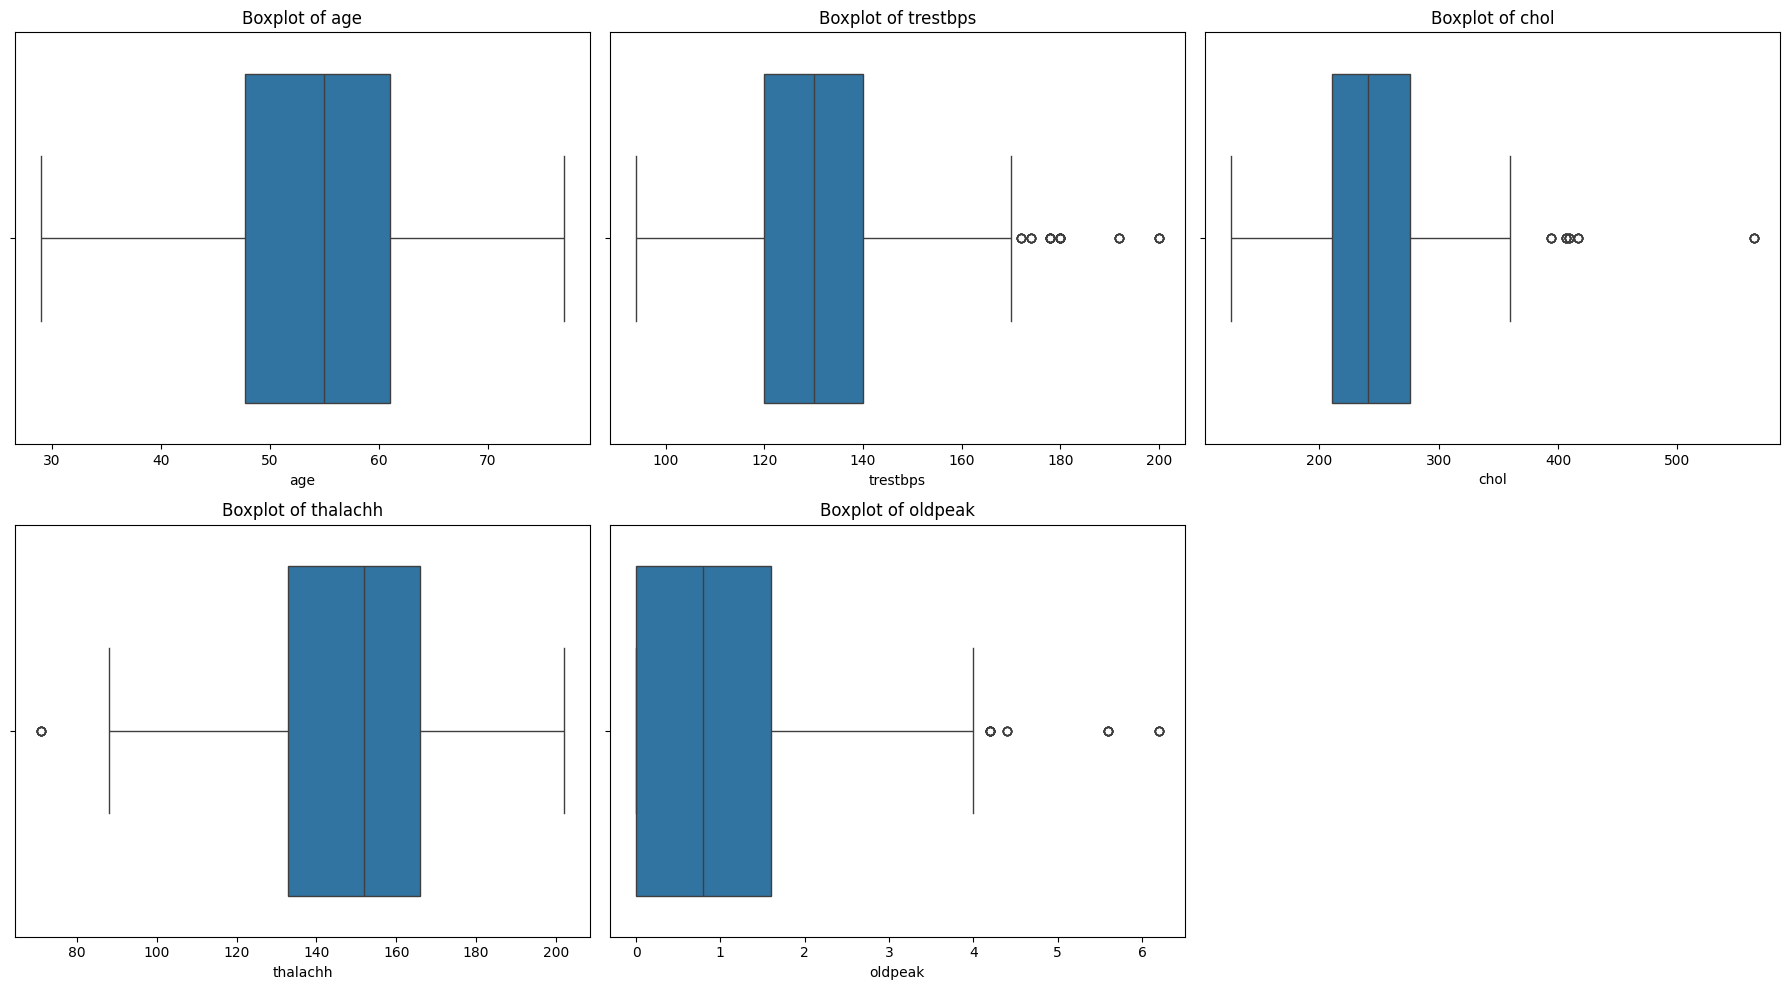
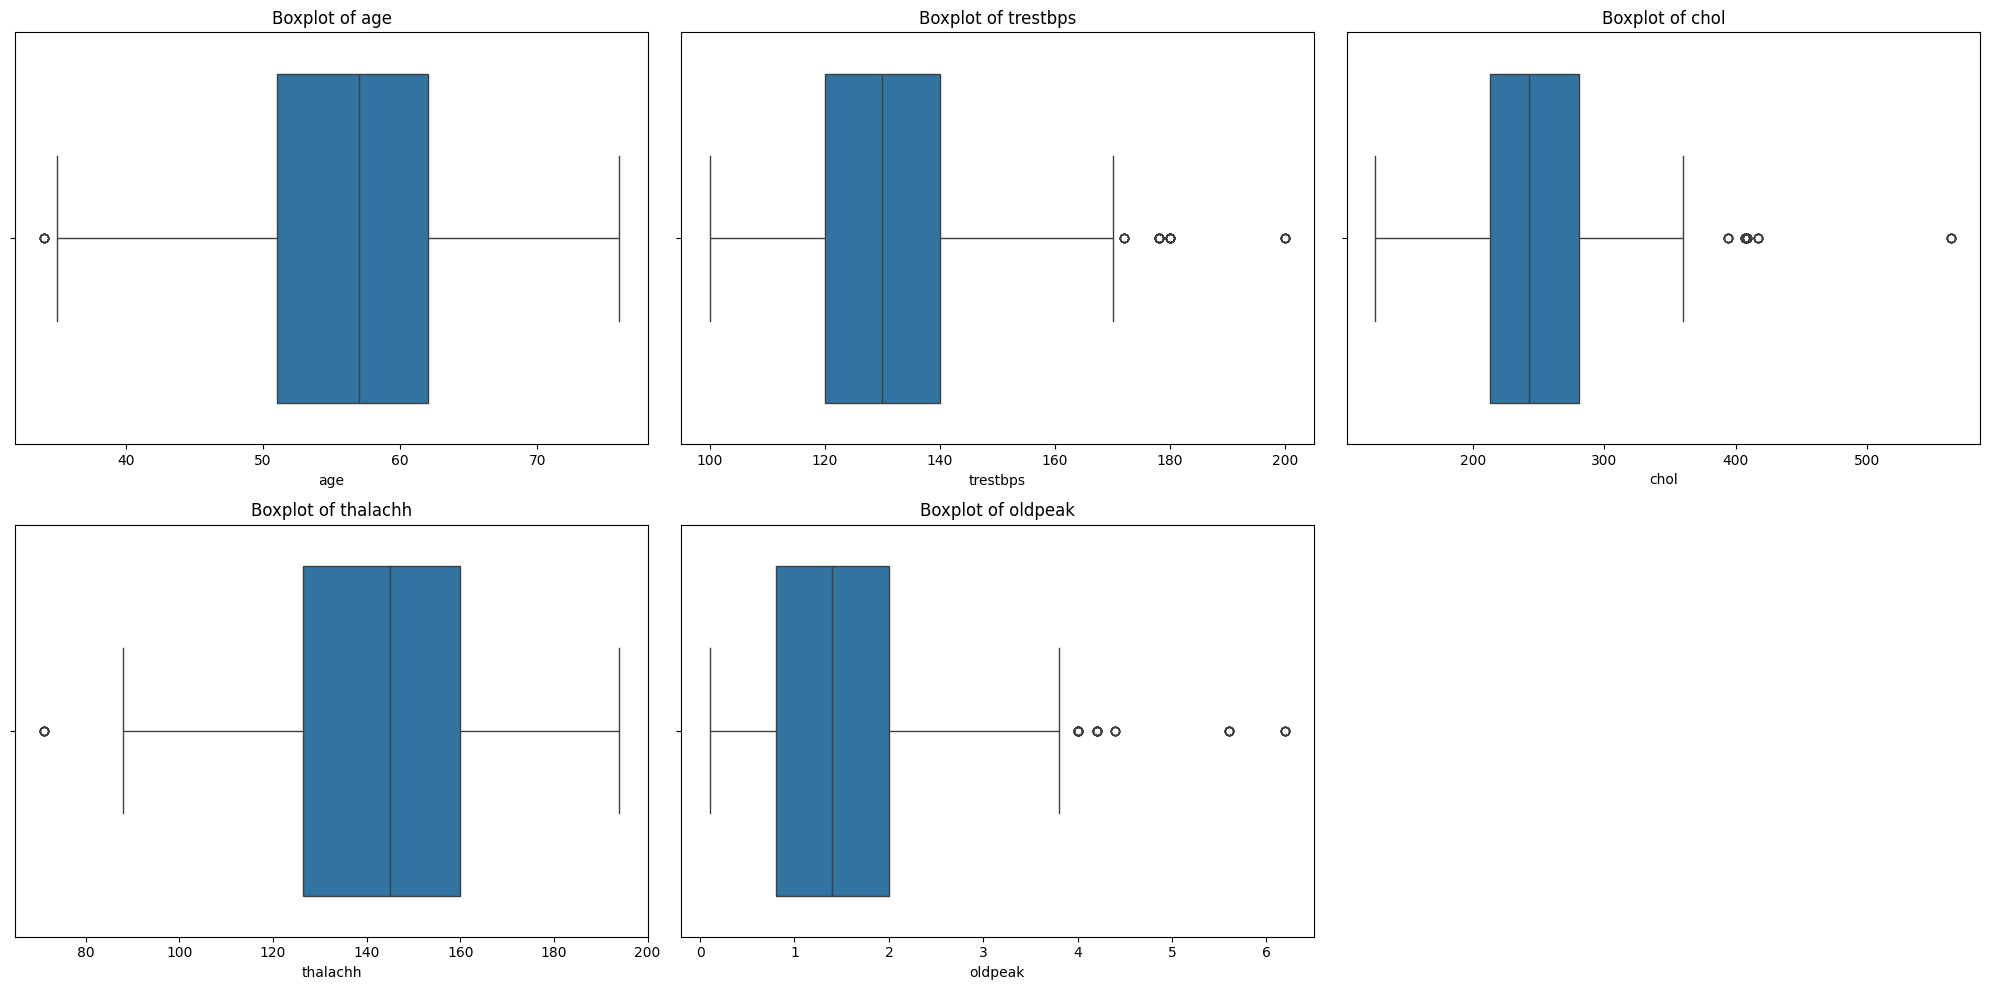
update

diff --git a/laporan_submission.md b/laporan_submission.md
@@ -46,14 +46,18 @@ Pendekatan berbasis machine learning menawarkan keuntungan dalam hal kemampuan u
 
 - Model machine learning secara teratur dapat dioptimasi dengan mengelola dan menganalisis volume besar data medis dengan efisien, sehingga menghasilkan prediksi yang lebih akurat tentang kemungkinan risiko penyakit jantung.
 
-**Rubrik/Kriteria Tambahan (Opsional)**:
-
 ### Solution statements
 
 - Membandingkan beberapa algoritma machine learning untuk mendapatkan algoritma yang memiliki performa terbaik.
 - Melakukan evaluasi menggunakan beberapa metrik seperti akurasi, presisi, F1, dan juga ROC agar model yang dihasilkan akurat dan dapat diandalkan.
 
 ## Data Understanding
+
+Untuk memahami tentang dataset yang digunakan, teknik Exploratory Data Analysis (EDA) digunakan sebagai langkah awal dalam proses analisis data. EDA memungkinkan eksplorasi dan pengamatan terhadap dataset secara sistematis, sehingga karakteristik, pola, dan hubungan antara variabel-variabel dalam dataset dapat dipahami lebih jelas. Dengan menggunakan EDA, identifikasi outlier, deteksi pola dan hubungan antara variabel, serta pemahaman distribusi data dapat dilakukan, sehingga keputusan yang lebih tepat dalam proses analisis dan pengambilan keputusan berbasis data dapat diambil.
+
+### Exploratory Data Analysis (EDA)
+
+#### Deskripsi Variabel
 
 Dataset yang digunakan berisi 1.888 data yang digabungkan dari lima dataset penyakit jantung yang tersedia. Dataset ini memiliki 14 fitur untuk memprediksi risiko serangan jantung, yang mencakup faktor medis dan demografi. Berikut ini adalah deskripsi terperinci dari setiap fitur.
 
@@ -72,63 +76,218 @@ Dataset yang digunakan berisi 1.888 data yang digabungkan dari lima dataset peny
 13. thal: Jenis-jenis talasemia. Nilai: 1 = Normal, 2 = Fixed defect, 3 = Reversible defect.
 14. target: Label, resiko serangan jantung. Nilai: 1 = more chance of heart attack, 0 = less chance of heart attack.
 
+Dari deskripsi fitur diatas, dapat dilihat bahwa terdapat 5 kolom bertipe numerik, 8 kolom bertipe kategori, dan 1 kolom target.
+
+Berikut ini statistik dari dataset
+
+![statistik](https://raw.githubusercontent.com/yest/proyek1-mlt/refs/heads/main/images/statistik.png)
+
+Jumlah data untuk label 0 adalah 911, dan label 1 adalah 977, sehingga dapat dikatakan bahwa distribusi datanya seimbang.
+![distribusi label](https://raw.githubusercontent.com/yest/proyek1-mlt/refs/heads/main/images/distribusi_label.png)
+
 Dataset dapat diunduh di [Kaggle](https://www.kaggle.com/datasets/mfarhaannazirkhan/heart-dataset).
 
-**Rubrik/Kriteria Tambahan (Opsional)**:
+#### Missing Values
 
-### Exploratory Data Analysis (EDA)
+Pada dataset ini tidak ditemukan adanya missing values, namun pada kolom oldpeak, terdapat 609 data yang yang bernilai 0. Untuk itu data tersebut dihapus sehingga jumlah data menjadi 1279 dengan rincian sebagai berikut:
 
-Berikut ini hasil dari (EDA)
+- Jumlah data dengan label 0 adalah 714
+- Jumlah data dengan label 1 adalah 565
 
-1. Dari 1.888 data tidak ada data yang kosong.
-2. Jumlah data untuk label 0 adalah 911, dan label 1 adalah 977, sehingga dapat dikatakan bahwa distribusi datanya seimbang.
-![distribusi label](https://raw.githubusercontent.com/yest/proyek1-mlt/refs/heads/main/images/distribusi_label.png)
-3. Berikut ini hasil distribusi untuk kolom-kolom bertipe numerik.
-    - age: Sebagian besar peserta memiliki usia antara 50-60 tahun. Tidak ada outlier yang signifikan.
-    - trestbps: Sebagian besar peserta memiliki tekanan darah istirahat sekitar 120-140 mmHg. Terdapat beberapa outlier dengan tekanan darah yang lebih tinggi.
-    - chol: Sebagian besar peserta memiliki kadar kolesterol sekitar 200-300 mg/dL. Terdapat beberapa outlier dengan kadar kolesterol yang lebih tinggi.
-    - thalachh: Sebagian besar peserta memiliki detak jantung maksimum sekitar 150-160 bpm. Terdapat beberapa outlier dengan detak jantung maksimum yang lebih rendah.
-    - oldpeak: Sebagian besar peserta memiliki depresi ST yang rendah (dekat dengan 0). Terdapat beberapa outlier dengan depresi ST yang lebih tinggi.
+Setelah penghapusan data birnilai 0, data masih dapat dikatakan seimbang.
+
+### Outliers
+
+Pada tahapan ini dilakukan analisa outliers menggunakan Boxplot. Berikut ini adalah hasil distribusi dan analisis outlier dari kolom-kolom bertipe numerik.
+
+- age: Sebagian besar peserta memiliki usia antara 50-60 tahun. Tidak ada outlier yang signifikan.
+- trestbps: Sebagian besar peserta memiliki tekanan darah istirahat sekitar 120-140 mmHg. Terdapat beberapa outlier dengan tekanan darah yang lebih tinggi.
+- chol: Sebagian besar peserta memiliki kadar kolesterol sekitar 200-300 mg/dL. Terdapat beberapa outlier dengan kadar kolesterol yang lebih tinggi.
+- thalachh: Sebagian besar peserta memiliki detak jantung maksimum sekitar 150-160 bpm. Terdapat beberapa outlier dengan detak jantung maksimum yang lebih rendah.
+- oldpeak: Sebagian besar peserta memiliki depresi ST yang rendah (dekat dengan 0). Terdapat beberapa outlier dengan depresi ST yang lebih tinggi.
+
 Berikut ini adalah boxplot dari setiap kolom bertipe numerik.
 ![boxplot](https://raw.githubusercontent.com/yest/proyek1-mlt/refs/heads/main/images/boxplot.png)
 
+Setelah mengetahui adanya outliers, maka data outliers tersebut dihapus. Setelah penghapusan data, maka jumlah data menjadi 914 dengan rincian 523 untuk label 0 dan 391 untuk label 1, dan distribusi label masih seimbang.
+
+### Univariate Analysis
+
+#### Kolom kategorikal
+
+Analisis univariate kolom kategorikal dilakukan menggunakan countplot. Hasilnya dapat dilihat pada grafik berikut ini.
+
+![countplot](https://raw.githubusercontent.com/yest/proyek1-mlt/refs/heads/main/images/univariate_categorical.png)
+
+Dari hasil analisis univariate dapat disimpulkan beberapa hal berikut ini:
+
+1. Pada kolom sex, data terbanyak ada pada kategori laki-laki.
+2. Pada kolom cp, jenis sakit di dada yang paling dominan adalah Typical angina.
+3. Pada kolom fbs, seluruh data memiliki gula darah < 120 mg/dl.
+4. Pada kolom restecg, sasil elektrokardiografi saat istirahat yang dominan adalah normal dan ST-T wave abnormality.
+5. Pada kolom exang, data terbanyak adalah angina akibat olahraga.
+6. Pada kolom slope, kemiringan segmen ST latihan puncak yang dominan adalah Flat.
+7. Pada kolom ca, jumlah pembuluh darah utama (0-3) yang diwarnai dengan fluoroskopi paling banyak adalah 0.
+8. Pada kolom thal, jenis talasemia yang dominan adalah Reversible defect dan fixed.
+
+#### Kolom Numerik
+
+Pada kolom bertipe numerik, analisis univariate dilakukan menggunakan histogram. Hasil dari histogram dapat dilihat dibawah ini.
+
+![histogram](https://raw.githubusercontent.com/yest/proyek1-mlt/refs/heads/main/images/univariate_numerical.png)
+
+Dari histogram diatas dapat disimpulkan beberapa hal:
+
+1. Age: Distribusi cenderung normal dengan puncak di sekitar usia 55-60 tahun. Ini menunjukkan bahwa sebagian besar subjek penelitian berada dalam rentang usia tersebut. Sehingga dapat disimpulkan bahwa sebagian besar pasien dalam dataset ini berada pada usia menengah hingga lanjut.
+2. Trestbps: Distribusi cenderung normal, dengan sedikit kemiringan ke kanan. Puncaknya berada di sekitar 120-130 mmHg. Sehingga dapat disimpulkan bahwa sebagian besar pasien memiliki tekanan darah dalam rentang normal hingga sedikit tinggi saat istirahat.
+3. Chol: Distribusi cenderung normal, dengan sedikit kemiringan ke kanan. Puncaknya berada di sekitar 200-250 mg/dL. Sehingga dapat disimpulkan bahwa tingkat kolesterol sebagian besar pasien berada dalam rentang normal hingga sedikit tinggi.
+4. Thalachh: distribusi cenderung normal, dengan sedikit kemiringan ke kiri. Puncaknya berada di sekitar 150-160 bpm. Sehingga dapat disimpulkan bahwa detak jantung maksimum sebagian besar pasien berada dalam rentang normal hingga sedikit di atas rata-rata.
+5. Oldpeak: distribusi cenderung miring ke kanan, dengan sebagian besar data terkonsentrasi di sekitar nilai 0-1. Sehingga dapat disimpulkan bahwa sebagian besar pasien memiliki depresi segmen ST yang rendah.
+
+### Multivariate Analysis
+
+#### Categorical
+
+Analisis multivariate pada kolom bertipe kategorikal menggunakan catplot. Berikut ini hasil dari catplot.
+
+![catplot](https://raw.githubusercontent.com/yest/proyek1-mlt/refs/heads/main/images/catplot.png)
+
+Dari catplot diatas, dapat dilihat bahwa terdapat beberapa fitur yang memiliki pengaruh ke target, yaitu: sex, exang, ca, dan thal.
+
+#### Numerical
+
+Analisis multivariate pada kolom bertipe numerik menggunakan matriks korelasi. Hasil analisis menunjukkan bahwa tidak ada satupun fitur yang memiliki korelasi kuat ke target.
+
+Berikut ini adalah matriks korelasi dari kolom bertipe numerik.
+
+![correlation matrix](https://raw.githubusercontent.com/yest/proyek1-mlt/refs/heads/main/images/cm.png)
+
 ## Data Preparation
 
-Pada bagian ini Anda menerapkan dan menyebutkan teknik data preparation yang dilakukan. Teknik yang digunakan pada notebook dan laporan harus berurutan.
+### Encoding
 
-**Rubrik/Kriteria Tambahan (Opsional)**:
+Langkah pertama dalam tahapan data preparation adalah melakukan encoding terhadap fitur kategorikal. Encoding dilakukan untuk menghindari penafsiran yang salah oleh model dan meningkatkan kinerja model. Teknik encoding yang digunakan adalah One Hot Encoding.
 
-- Menjelaskan proses data preparation yang dilakukan
-- Menjelaskan alasan mengapa diperlukan tahapan data preparation tersebut.
+Berikut ini struktur kolom setelah encoding.
+
+![struktur encoding](https://raw.githubusercontent.com/yest/proyek1-mlt/refs/heads/main/images/struktur_encoding.png)
+
+### Train test split
+
+Langkah berikutnya adalah membagi dataset menjadi data train dan data test. Data train digunakan untuk training model machine learning, sedangkan data test digunakan untuk evaluasi model. 
+
+Persentase pembagian data adalah sebesar 80% untuk data train dan 20% untuk data test, atau 731 data train dan 183 data test.
 
 ## Modeling
 
-Tahapan ini membahas mengenai model machine learning yang digunakan untuk menyelesaikan permasalahan. Anda perlu menjelaskan tahapan dan parameter yang digunakan pada proses pemodelan.
+Untuk menentukan algoritma yang akan digunakan, maka dilakukan perbandingan beberapa algoritma machine learning untuk mengetahui algortima mana yang paling tepat untuk permasalahan deteksi penyakit jantung.
 
-**Rubrik/Kriteria Tambahan (Opsional)**:
+Algortima yang dibandingkan adalah:
 
-- Menjelaskan kelebihan dan kekurangan dari setiap algoritma yang digunakan.
-- Jika menggunakan satu algoritma pada solution statement, lakukan proses improvement terhadap model dengan hyperparameter tuning. **Jelaskan proses improvement yang dilakukan**.
-- Jika menggunakan dua atau lebih algoritma pada solution statement, maka pilih model terbaik sebagai solusi. **Jelaskan mengapa memilih model tersebut sebagai model terbaik**.
+1. Logistic Regression
+2. Linear Discriminant Analysis
+3. K-Nearest Neighbor(KNN)
+4. Decision Tree
+5. Naive Bayes
+6. Support Vector Machine
+
+Pemilihan algoritma-algoritma ini didasarkan pada karakteristik dan keunggulan masing-masing yang relevan dengan kasus prediksi penyakit jantung. berikut ini beberapa alasan pemilihan algoritma.
+
+1. Logistic Regression cocok untuk masalah klasifikasi biner dan memberikan interpretasi yang jelas terhadap koefisien.
+2. Linear Discriminant Analysis efektif dalam menangani masalah dengan fitur-fitur yang memiliki distribusi normal.
+3. K-Nearest Neighbor (KNN) merupakan algoritma yang sederhana dan intuitif, serta dapat menangani data yang tidak linear.
+4. Decision Tree memungkinkan interpretasi yang mudah dan dapat menangani fitur kategorikal.
+5. Naive Bayes bekerja dengan baik pada dataset dengan ukuran besar dan fitur-fitur yang independen.
+6. Support Vector Machine (SVM) efektif dalam menangani masalah klasifikasi dengan dimensi tinggi dan margin yang jelas.
+
+Dengan membandingkan algoritma-algoritma tersebut, diharapkan dapat menemukan model yang paling akurat dan efisien untuk prediksi penyakit jantung.
+
+Training dilakukan menggunakan teknik K-fold cross validation dengan n_split=10. Berikut ini adalah akurasi dan standar deviasi dari masing-masing algoritma.
+
+Algoritma | Akurasi | Standard Deviasi
+---------|----------|---------
+Logistic Regression | 0.834598 | 0.048124
+Linear Discriminant Analysis | 0.826472 | 0.062904
+K-Nearest Neighbor(KNN) | 0.844113 | 0.039460
+Decision Tree | 0.964421 | 0.012580
+Naive Bayes | 0.816846 | 0.051139
+Support Vector Machine | 0.915161 | 0.022826
+
+Berdasarkan tabel diatas, dapat dilihat bahwa algoritma Decision Tree memiliki performa terbaik dibandingkan algoritma lainnya.
 
 ## Evaluation
 
-Pada bagian ini anda perlu menyebutkan metrik evaluasi yang digunakan. Lalu anda perlu menjelaskan hasil proyek berdasarkan metrik evaluasi yang digunakan.
+Berdasarkan hasil perbandingan, maka dataset di training menggunkan algortima Decision Tree dengan parameter default. Setelah di training, model di evaluasi pada data test menggunakan beberapa matrix sebagai berikut:
 
-Sebagai contoh, Anda memiih kasus klasifikasi dan menggunakan metrik **akurasi, precision, recall, dan F1 score**. Jelaskan mengenai beberapa hal berikut:
+### 1. Confusion Matrix
 
-- Penjelasan mengenai metrik yang digunakan
-- Menjelaskan hasil proyek berdasarkan metrik evaluasi
+Confusion matrix adalah tabel yang digunakan untuk menggambarkan kinerja model klasifikasi. Confusion matrix biasanya terdiri dari empat komponen:
 
-Ingatlah, metrik evaluasi yang digunakan harus sesuai dengan konteks data, problem statement, dan solusi yang diinginkan.
+- **True Positive (TP):** Jumlah kasus yang sebenarnya positif (penderita penyakit jantung) dan diprediksi benar sebagai positif.
+- **True Negative (TN):** Jumlah kasus yang sebenarnya negatif (bukan penderita penyakit jantung) dan diprediksi benar sebagai negatif.
+- **False Positive (FP):** Jumlah kasus yang sebenarnya negatif (bukan penderita penyakit jantung) tetapi diprediksi salah sebagai positif (kesalahan tipe I).
+- **False Negative (FN):** Jumlah kasus yang sebenarnya positif (penderita penyakit jantung) tetapi diprediksi salah sebagai negatif (kesalahan tipe II).
 
-**Rubrik/Kriteria Tambahan (Opsional)**:
+### 2. Akurasi (Accuracy)
 
-- Menjelaskan formula metrik dan bagaimana metrik tersebut bekerja.
+Akurasi adalah proporsi prediksi yang benar dari total prediksi yang dibuat. Rumusnya adalah:
 
-**---Ini adalah bagian akhir laporan---**
+$\text{Accuracy} = \frac{TP + TN}{TP + TN + FP + FN}$
 
-_Catatan:_
+Akurasi memberikan gambaran umum tentang seberapa baik model dalam memprediksi baik kasus positif maupun negatif. Namun, akurasi bisa menyesatkan jika dataset tidak seimbang (misalnya, banyak lebih banyak kasus negatif daripada positif).
 
-- _Anda dapat menambahkan gambar, kode, atau tabel ke dalam laporan jika diperlukan. Temukan caranya pada contoh dokumen markdown di situs editor [Dillinger](https://dillinger.io/), [Github Guides: Mastering markdown](https://guides.github.com/features/mastering-markdown/), atau sumber lain di internet. Semangat!_
-- Jika terdapat penjelasan yang harus menyertakan code snippet, tuliskan dengan sewajarnya. Tidak perlu menuliskan keseluruhan kode project, cukup bagian yang ingin dijelaskan saja.
+### 3. Recall (Sensitivity atau True Positive Rate)
+
+Recall mengukur seberapa baik model dapat mengidentifikasi kasus positif. Rumusnya adalah:
+
+$\text{Recall} = \frac{TP}{TP + FN}$
+
+Recall penting dalam kasus prediksi penyakit jantung karena mengurangi risiko false negative (menyatakan seseorang sehat padahal mereka memiliki penyakit jantung) sangat krusial.
+
+### 4. Precision (Positive Predictive Value)
+
+Precision mengukur seberapa baik model dapat memprediksi kasus positif tanpa membuat kesalahan. Rumusnya adalah:
+
+$\text{Precision} = \frac{TP}{TP + FP}$
+
+Precision penting untuk mengurangi false positive (menyatakan seseorang memiliki penyakit jantung padahal mereka sehat), yang juga bisa menimbulkan stres dan biaya tambahan untuk pasien.
+
+### 5. F1 Score
+
+F1 score adalah harmonik mean dari precision dan recall, yang memberikan satu nilai tunggal yang menggabungkan keduanya. Rumusnya adalah:
+
+$\text{F1 Score} = 2 \times \frac{\text{Precision} \times \text{Recall}}{\text{Precision} + \text{Recall}}$
+
+F1 score berguna ketika kita ingin menyeimbangkan antara precision dan recall, terutama dalam kasus di mana false positive dan false negative memiliki dampak yang berbeda-beda.
+
+Dalam prediksi penyakit jantung, penting untuk mempertimbangkan semua metrik ini karena setiap metrik memberikan informasi yang berbeda tentang kinerja model. Misalnya, recall penting untuk memastikan bahwa sebanyak mungkin kasus penyakit jantung terdeteksi, sementara precision penting untuk menghindari diagnosis palsu. F1 score memberikan gambaran yang seimbang antara keduanya. Confusion matrix dan akurasi memberikan gambaran umum, tetapi metrik-metrik lainnya membantu dalam evaluasi yang lebih detail dan berimbang.
+
+### Hasil
+
+Berikut ini hasil evaluasi dari model Decision Tree.
+
+#### Confusion Matrix
+
+Berikut ini hasil dari confusion matrix.
+
+![confusion matrix](https://raw.githubusercontent.com/yest/proyek1-mlt/refs/heads/main/images/confusion_matrix.png)
+
+- True Positive (TP): 74. Ini berarti model berhasil memprediksi 74 pasien sebagai "sakit jantung" dan prediksi tersebut benar.
+- True Negative (TN): 105. Ini berarti model berhasil memprediksi 105 pasien sebagai "tidak sakit jantung" dan prediksi tersebut benar.
+- False Positive (FP): 2. Ini berarti model salah memprediksi 2 pasien sebagai "sakit jantung" padahal sebenarnya mereka "tidak sakit jantung". (False alarm)
+- False Negative (FN): 2. Ini berarti model salah memprediksi 2 pasien sebagai "tidak sakit jantung" padahal sebenarnya mereka "sakit jantung". (Missed detection)
+
+Dapat disimpulkan bahwa model memiliki performa yang cukup baik dalam memprediksi penyakit jantung. Model ini mampu mengklasifikasikan sebagian besar pasien dengan benar. Namun, masih ada beberapa kasus di mana model melakukan kesalahan, yaitu mengklasifikasikan pasien yang sehat sebagai sakit (false positive) dan mengklasifikasikan pasien yang sakit sebagai sehat (false negative).
+
+#### Akurasi, Recall, Precission, F1
+
+Berikut ini hasi dari evaluasi.
+
+Matriks | Nilai
+---------|----------
+Accuracy | 0.98
+Recall | 0.98
+Precission | 0.98
+F1 | 0.98
+
+Berdasarkan matriks diatas dapat disimpulkan bahwa model prediksi penyakit jantung memiliki performa yang sangat baik. Model ini sangat akurat dalam mengklasifikasikan pasien, baik yang sakit maupun yang sehat.
